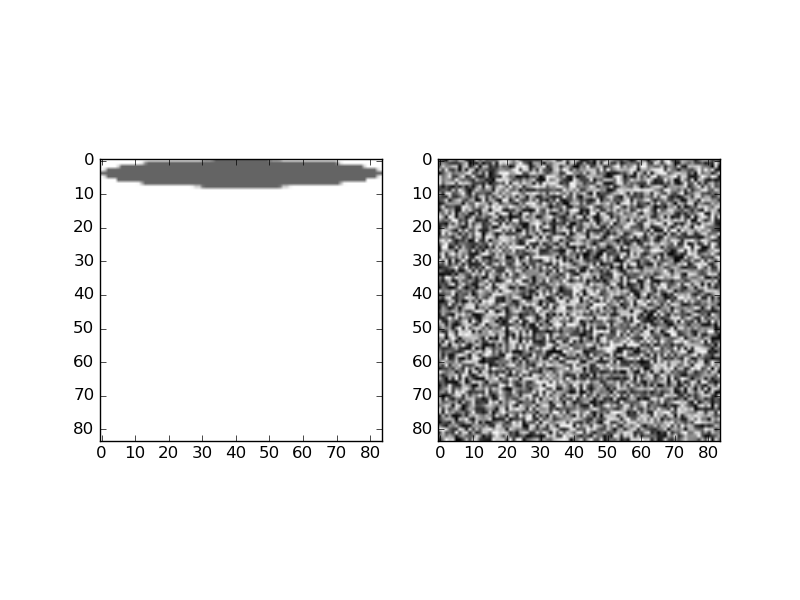
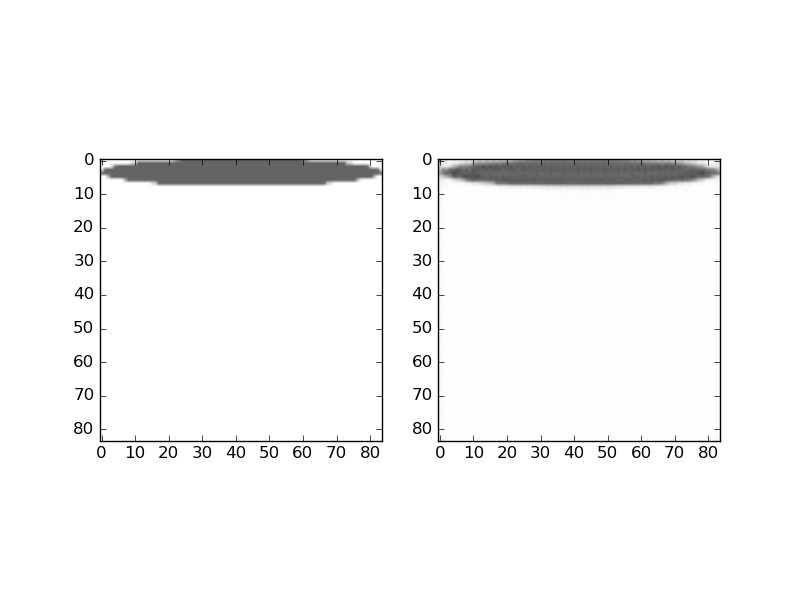
debugged

diff --git a/vae/network.py b/vae/network.py
@@ -32,7 +32,7 @@ def make_decoder(z):
     with tf.variable_scope('d1'):
         d1 = th.up_convolution(fc1, 5, 64, 32, tf.nn.relu)
     with tf.variable_scope('d2_mu'):
-        mu_x = th.up_convolution(d1, 5, 32, 1, lambda x: x)
+        mu_x = th.up_convolution(d1, 5, 32, 1, tf.nn.sigmoid)
     with tf.variable_scope('d2_sigma'):
         sigma_x = th.up_convolution(d1, 5, 32, 1, tf.nn.relu)
 
@@ -48,12 +48,12 @@ z = sigma_z * tf.random_normal([batch_size, encoding_size]) + mu_z
 with tf.variable_scope('decoder'):
     mu_x, sigma_x = make_decoder(z)
 
-term1 = 0.5 * tf.reduce_sum(1 + 2*tf.log(sigma_z + 10**-8) - tf.square(mu_z) - tf.square(sigma_z), reduction_indices=[1])
+term1 = (0.5 * tf.reduce_sum(1 + 2*tf.log(sigma_z + 10**-8) - tf.square(mu_z) - tf.square(sigma_z), reduction_indices=[1]))
 k = 84*84
-term2 = -k / 2.0 * np.log(2*np.pi) - 0.5*tf.reduce_sum(2*tf.log(sigma_x + 10**-8), reduction_indices=[1, 2, 3]) - tf.reduce_sum(0.5*tf.square(inp_image - mu_x)*(1.0 / (tf.square(sigma_x) + 10**-8)), [1, 2, 3])
+term2 = - tf.reduce_sum(0.5*tf.square(inp_image - mu_x), [1, 2, 3])
 loss = -tf.reduce_mean((term1 + term2), reduction_indices=0)
-
-train_op = tf.train.AdamOptimizer(learning_rate=0.001).minimize(loss)
+#loss = tf.reduce_mean(tf.square(inp_image - mu_x))
+train_op = tf.train.AdamOptimizer(learning_rate=0.0001).minimize(loss)
 
 saver = tf.train.Saver()
 

diff --git a/vae/main.py b/vae/main.py
@@ -13,7 +13,7 @@ def train_vae(num_steps=-1, batch_size=32, disp_interval=100, save_interval=1000
                                             feed_dict={network.inp_image: images / 255.})
         print i, loss
         if i % disp_interval == 0:
-            vh.display_side_by_side('recent', images[0], recon[0] * 255.)
+            vh.display_side_by_side('recent', images[0], recon[0])
         if i % save_interval == 0:
             network.saver.save(network.sess, './'+network_name+'.ckpt')
         i += 1
